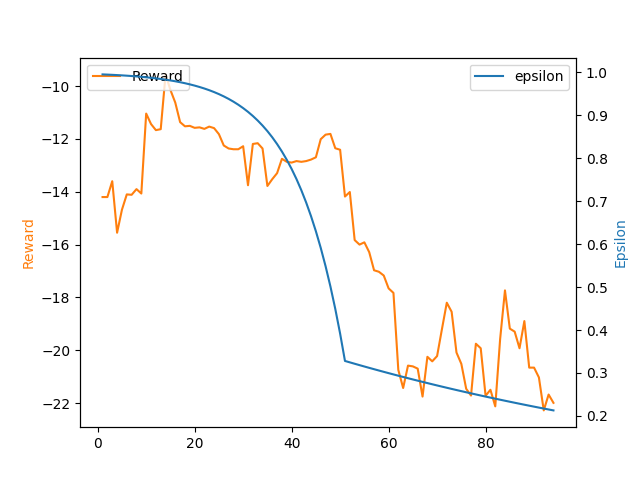
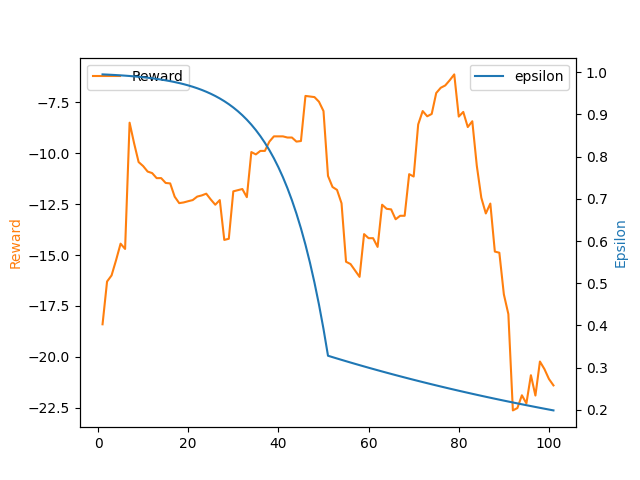
more tweaks

diff --git a/sumo_mmrl/environment/env.py b/sumo_mmrl/environment/env.py
@@ -230,11 +230,11 @@ class Basic:
             self.done = False
 
             if new_dist_check == 1:
-                reward += 0.4
+                reward += 0.3
 
             if vedge == pedge:
                 self.done = True
-                reward += 20
+                reward += 35
                 print("Success")
                 self.accumulated_reward += reward
             if self.steps >= self.steps_per_episode:

diff --git a/test.py b/test.py
@@ -1,9 +1,9 @@
 """ import stuff """
 from sumo_mmrl import Basic, Agent
 
-EPISODES = 100
+EPISODES = 100_000
 STEPS = 1000
-BATCH_SIZE = 32
+BATCH_SIZE = 64
 MIN_MEMORY = 1000
 EXPERIMENT_PATH = "Experiments/3x3"
 SUMOCONFIG = "/Nets/3x3b.sumocfg"
